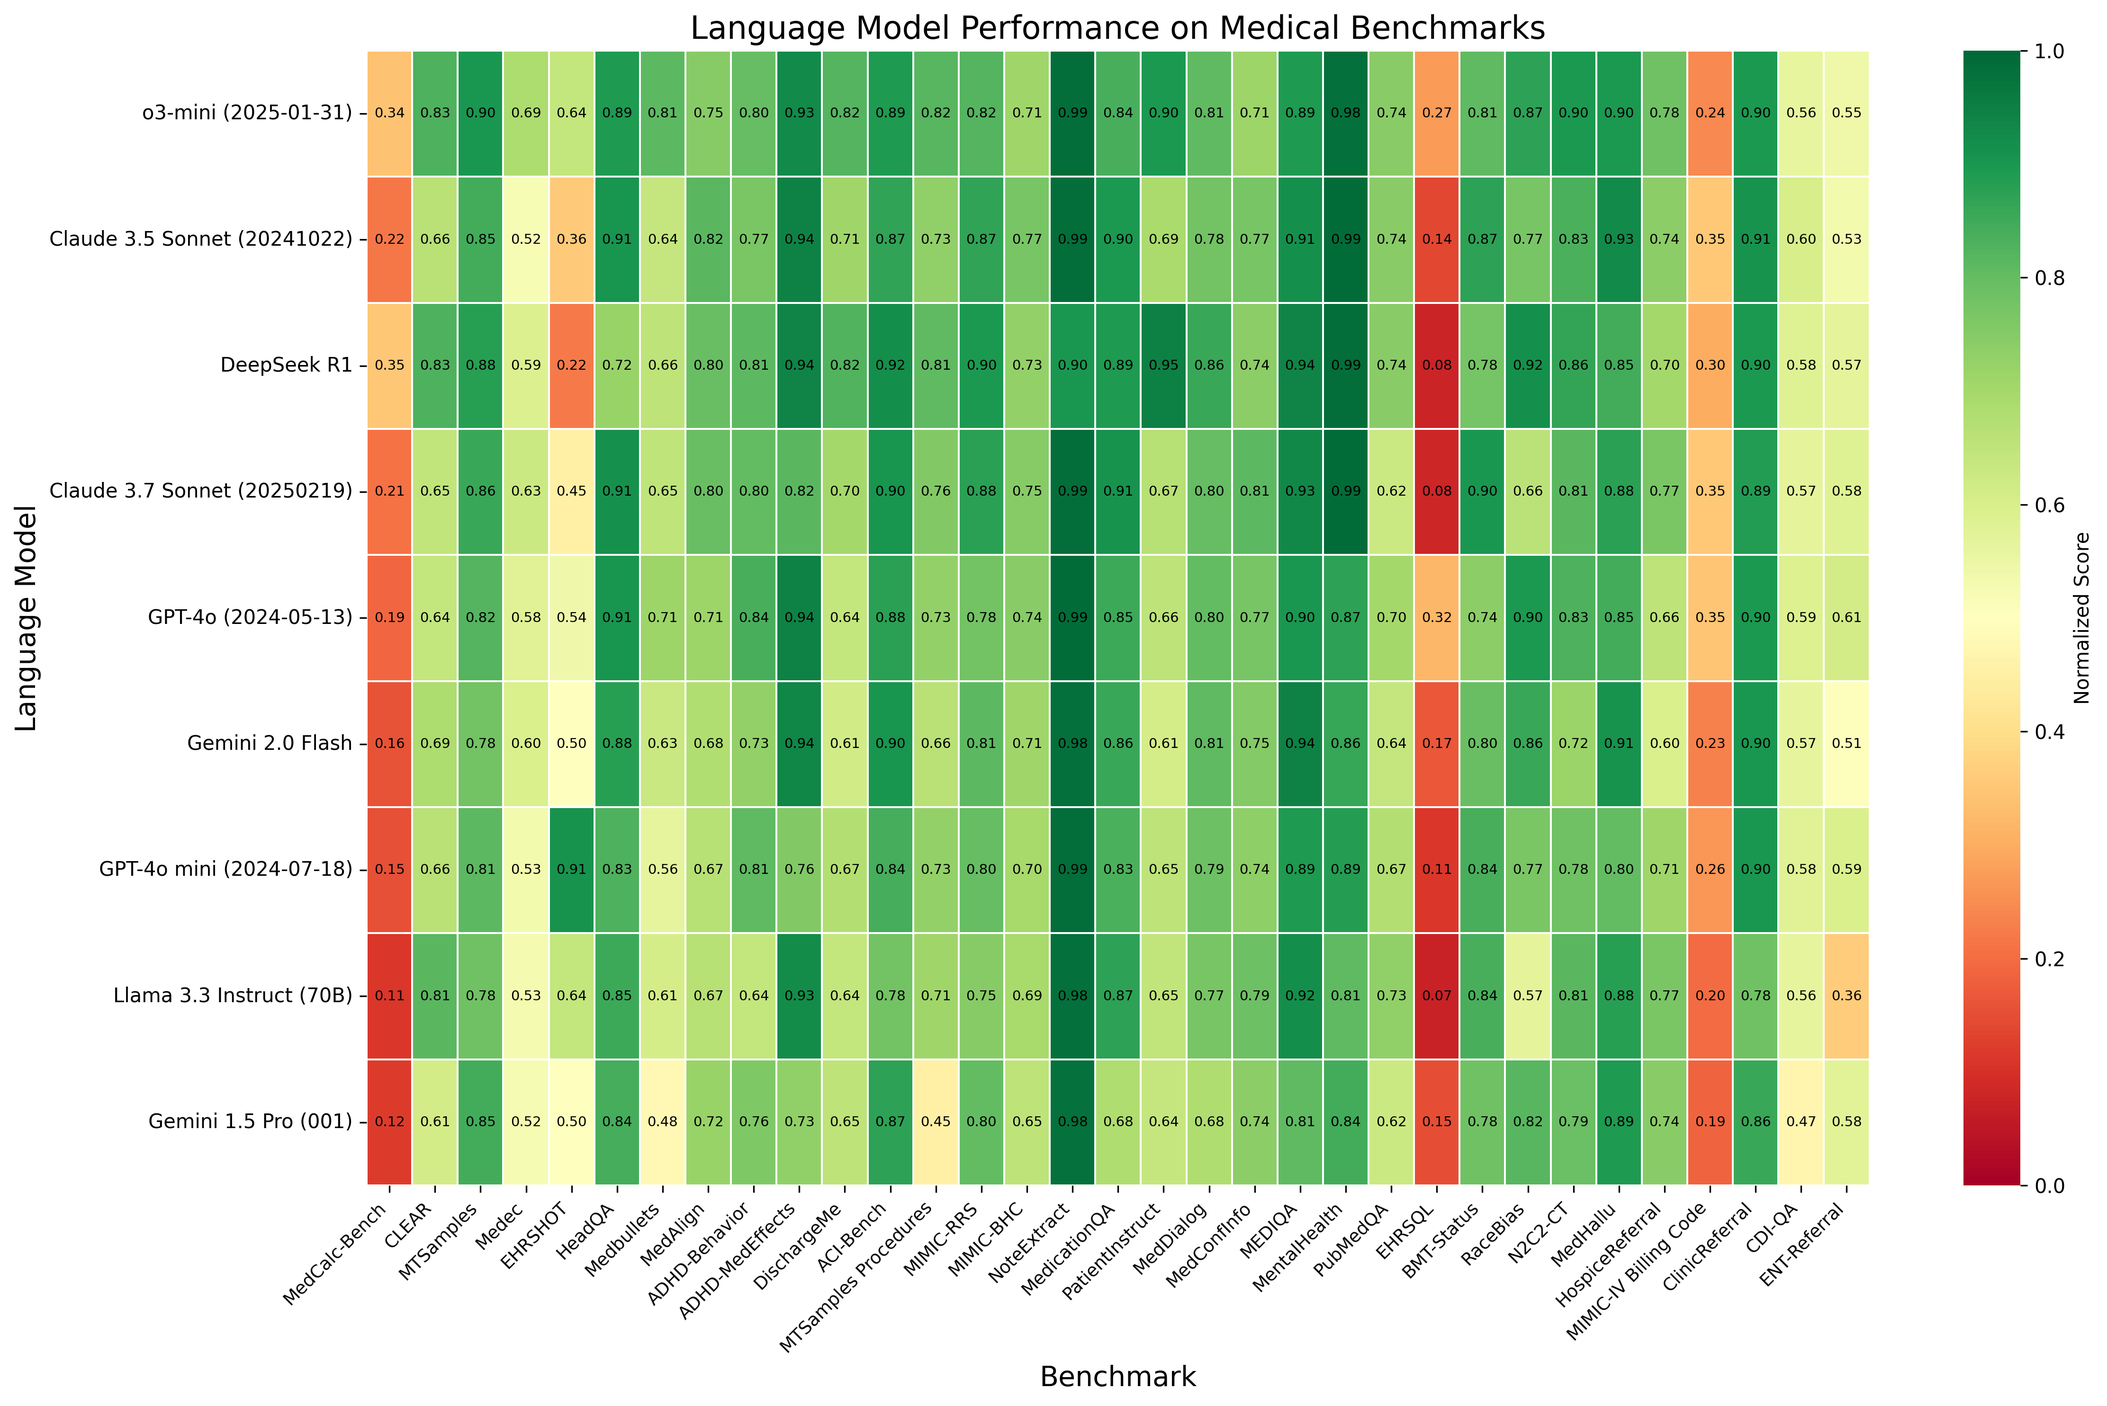
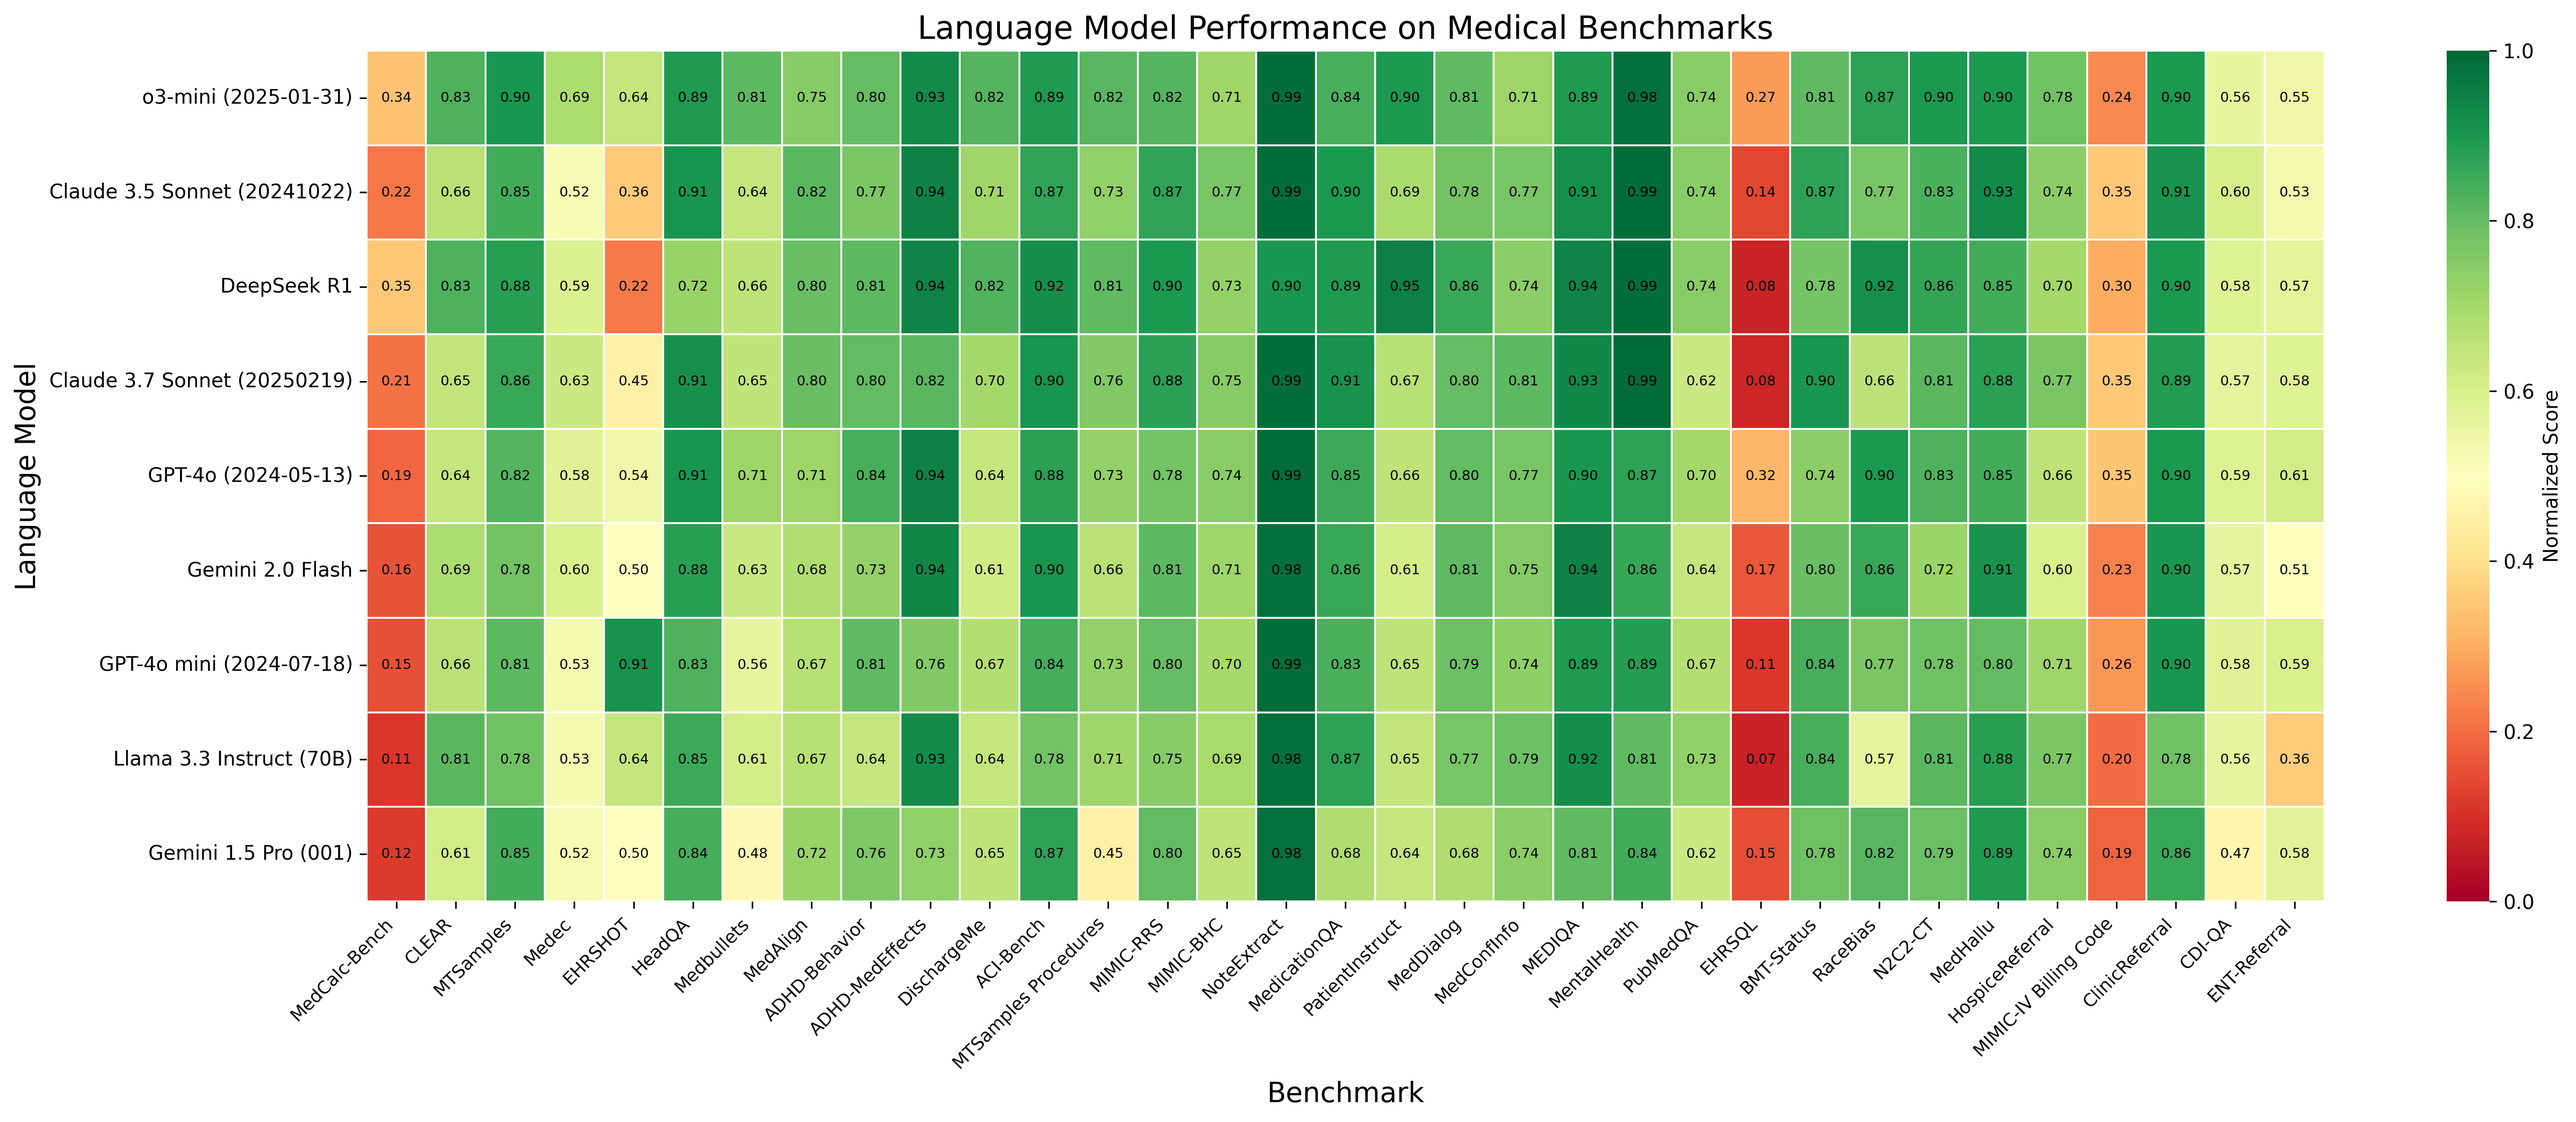
Updated category heatmaps

diff --git a/src/medhelm/plots/plot_category_heatmap.py b/src/medhelm/plots/plot_category_heatmap.py
@@ -4,7 +4,13 @@ import matplotlib.pyplot as plt
 import numpy as np
 from matplotlib.colors import BoundaryNorm, ListedColormap
 import argparse
-def plot_category_heatmap(df_path, aggregated=True):
+
+
+def plot_category_heatmap(
+    df_path: str,
+    output_path: str,
+    aggregated=True
+):
     df = pd.read_csv(df_path)
     
     # Define category mappings
@@ -116,10 +122,8 @@ def plot_category_heatmap(df_path, aggregated=True):
     plt.tight_layout()
 
     # Save the plot
-    suffix = "aggregated" if aggregated else "individual"
-    save_path = f'/share/pi/nigam/users/aunell/medhelm/plots/category_heatmap_{suffix}.png'
-    plt.savefig(save_path, dpi=300, bbox_inches='tight')
-    print(f"Plot saved as '{save_path}'")
+    plt.savefig(output_path, dpi=300, bbox_inches='tight')
+    print(f"Plot saved as '{output_path}'")
     
     return plt.gcf()
 
@@ -128,10 +132,8 @@ if __name__ == "__main__":
     # Aggregated view (default)
     args = argparse.ArgumentParser()
     args.add_argument("--leaderboard_path", type=str, default="/share/pi/nigam/users/aunell/medhelm/data/leaderboard.csv")
+    args.add_argument("--output_path", type=str, default="../plots/category_heatmap_aggregated.csv")
     args = args.parse_args()
-    plot_category_heatmap(df_path=args.leaderboard_path)
+    plot_category_heatmap(df_path=args.leaderboard_path, output_path=args.output_path)
     plt.close()
     
-    # Non-aggregated view
-    plot_category_heatmap(df_path=args.leaderboard_path,aggregated=False)
-    plt.close()

diff --git a/src/medhelm/plots/plot_medical_benchmarks_heatmap.py b/src/medhelm/plots/plot_medical_benchmarks_heatmap.py
@@ -41,7 +41,7 @@ df[benchmark_columns] = df[benchmark_columns].replace("-", 0)
 
 df[benchmark_columns] = df[benchmark_columns].apply(pd.to_numeric)
 
-plt.figure(figsize=(16, 10))
+plt.figure(figsize=(20, 8))
 
 df_norm = df[benchmark_columns].copy()
 for col in df_norm.columns:
